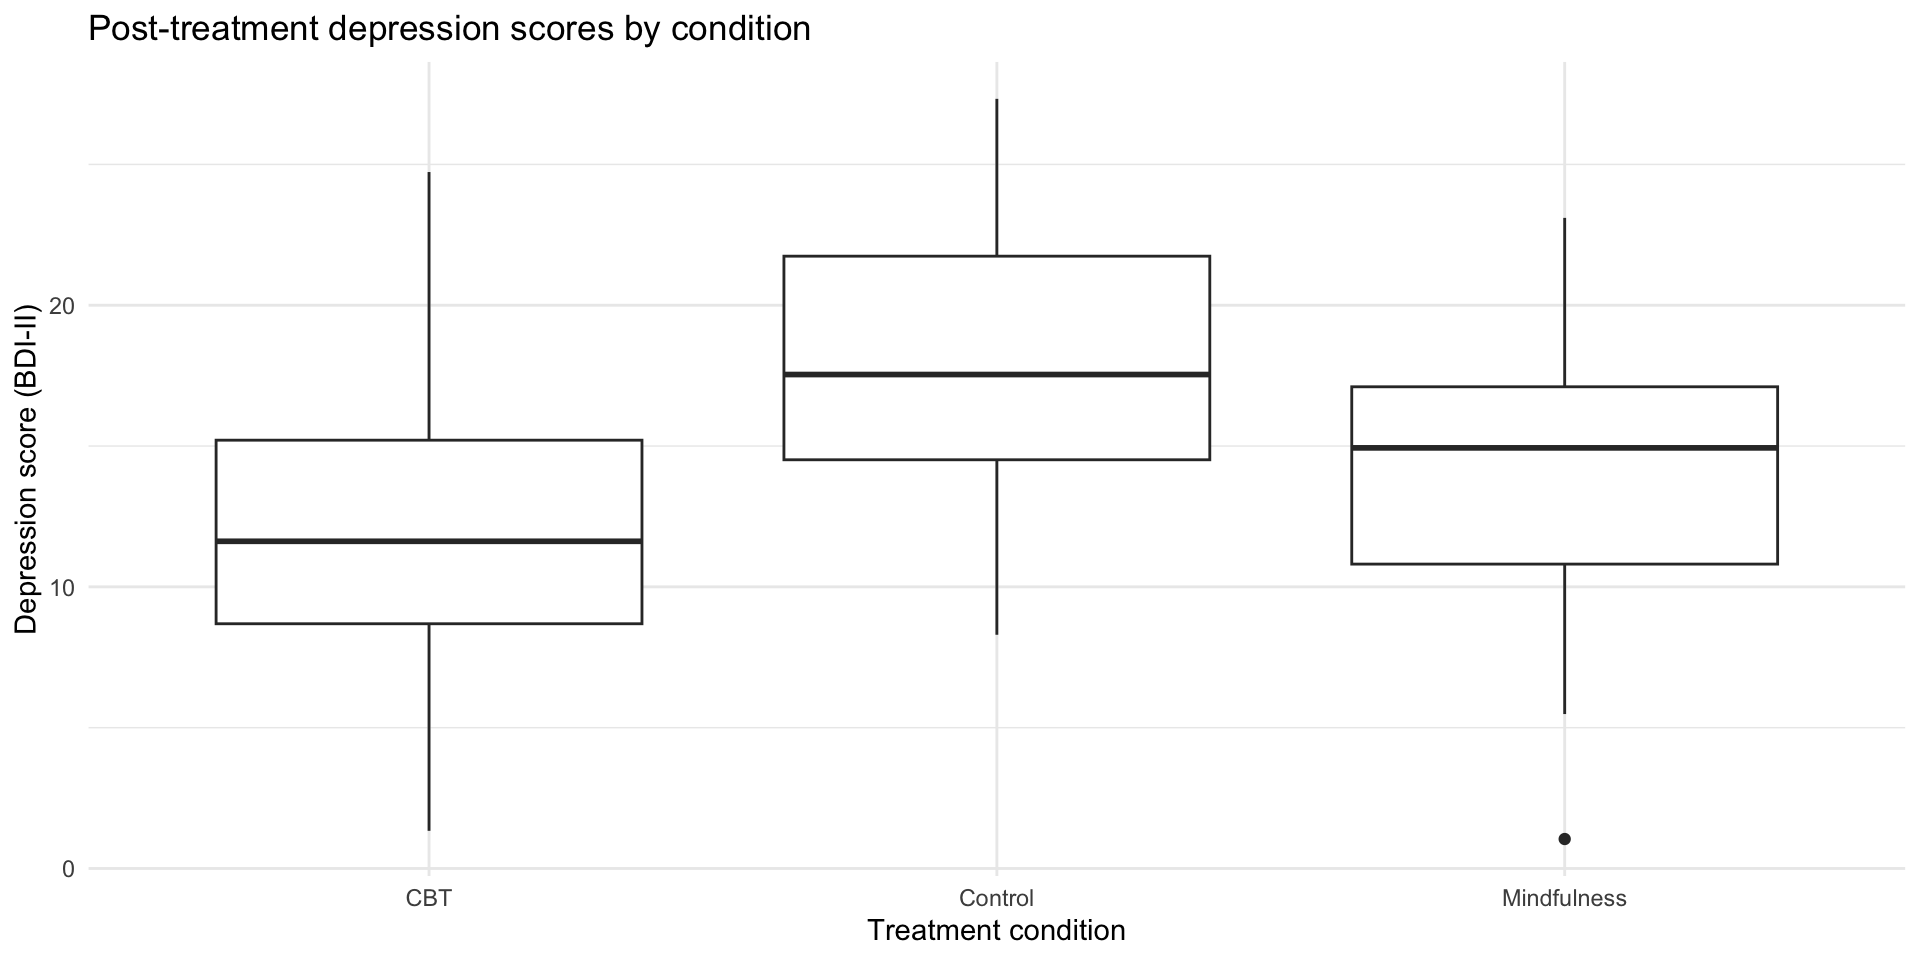
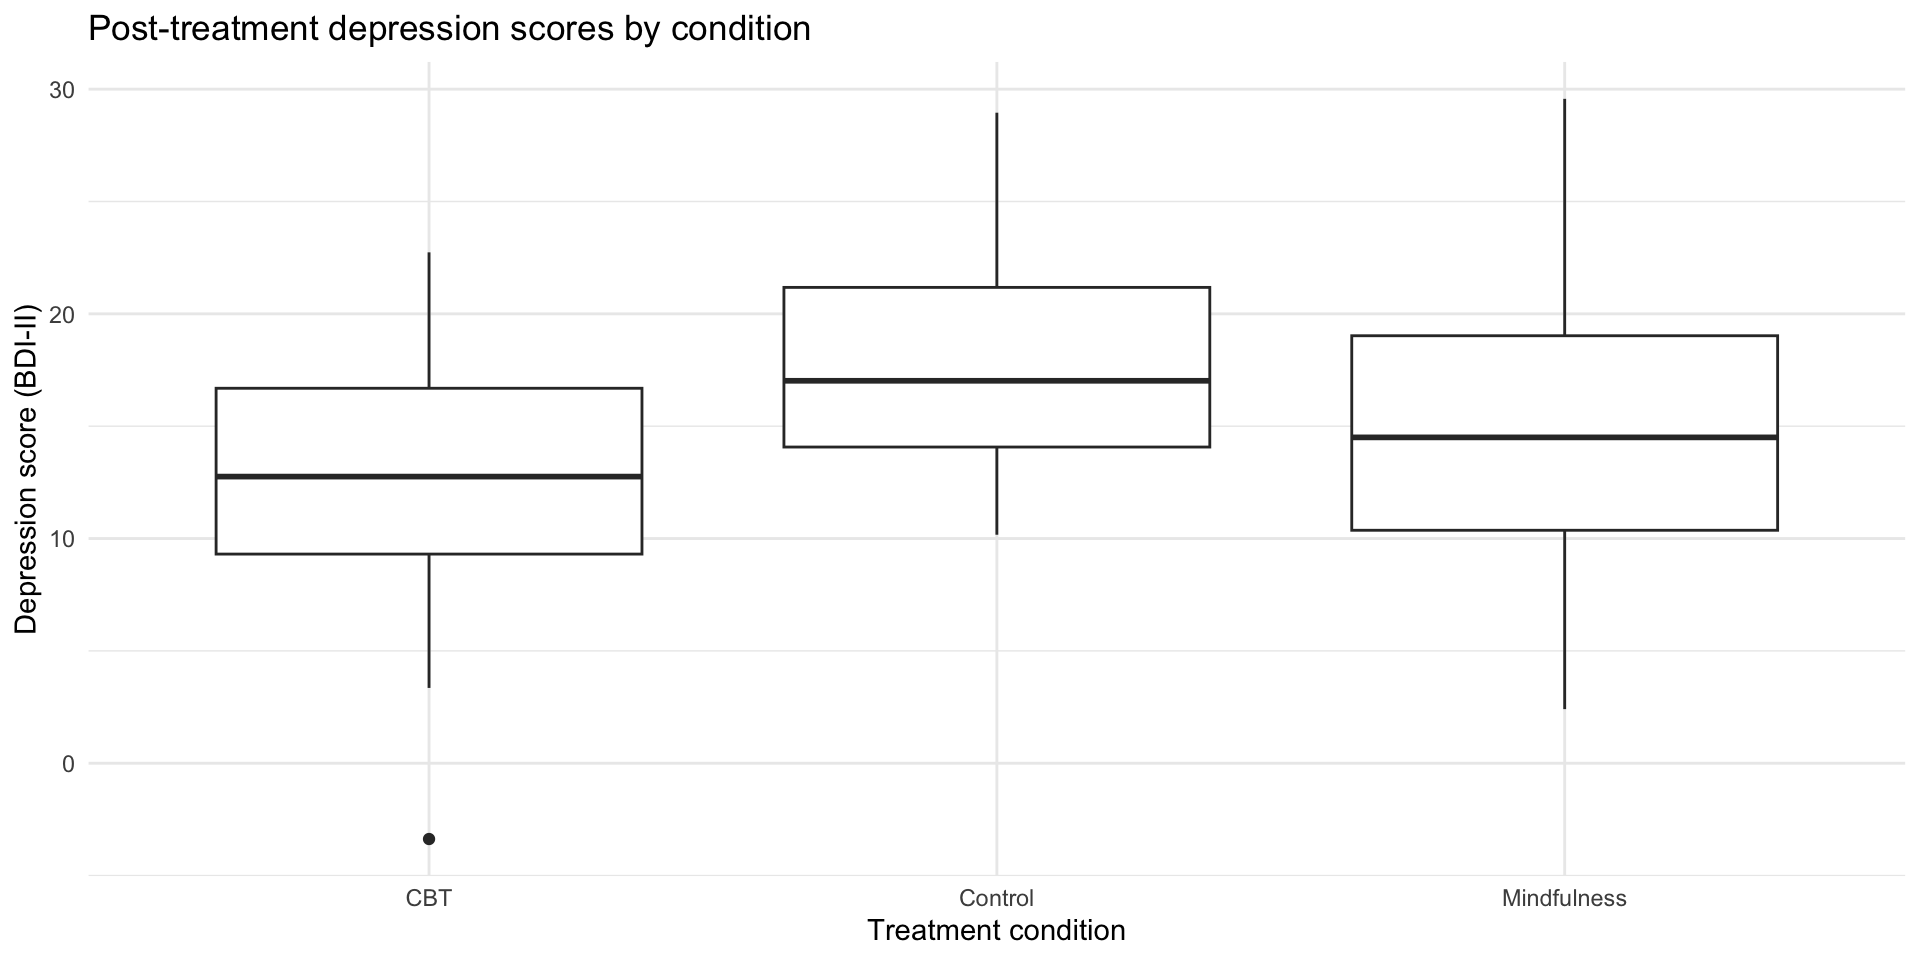
Built site for gh-pages

diff --git a/slides/11-eda-covariation.html b/slides/11-eda-covariation.html
@@ -270,7 +270,7 @@ Dr.&nbsp;Sara Weston
 <pre><code>Rows: 150
 Columns: 2
 $ condition       &lt;chr&gt; "Control", "Control", "Control", "Control", "Control",…
-$ depression_post &lt;dbl&gt; 17.859696, 16.665545, 9.601986, 19.877768, 19.070862, …</code></pre>
+$ depression_post &lt;dbl&gt; 12.74413, 22.35561, 26.64768, 26.41697, 14.50949, 18.9…</code></pre>
 </div>
 </div>
 <aside class="notes">
@@ -555,14 +555,14 @@ $ depression_post &lt;dbl&gt; 17.859696, 16.665545, 9.601986, 19.877768, 19.0708
 <span id="cb6-8"><a href="" aria-hidden="true" tabindex="-1"></a><span class="fu">head</span>(diagnosis_data)</span></code></pre></div>
 <div class="cell-output cell-output-stdout">
 <pre><code># A tibble: 6 × 2
-  referral  diagnosis
-  &lt;chr&gt;     &lt;chr&gt;    
-1 Self      Anxiety  
-2 Self      Other    
-3 Physician Other    
-4 Physician Anxiety  
-5 School    Other    
-6 Physician Anxiety  </code></pre>
+  referral  diagnosis 
+  &lt;chr&gt;     &lt;chr&gt;     
+1 School    Other     
+2 School    Depression
+3 Physician Anxiety   
+4 School    Depression
+5 School    Anxiety   
+6 Self      Other     </code></pre>
 </div>
 </div>
 </section>
@@ -743,8 +743,8 @@ $ depression_post &lt;dbl&gt; 17.859696, 16.665545, 9.601986, 19.877768, 19.0708
 <div class="cell-output cell-output-stdout">
 <pre><code>Rows: 100
 Columns: 2
-$ age           &lt;dbl&gt; 29.35101, 35.17477, 33.23575, 62.19349, 49.21511, 55.400…
-$ reaction_time &lt;dbl&gt; 286.3959, 326.1480, 327.0510, 415.9822, 420.4098, 313.66…</code></pre>
+$ age           &lt;dbl&gt; 31.59293, 31.50890, 19.65864, 43.65677, 39.92236, 61.052…
+$ reaction_time &lt;dbl&gt; 325.7398, 266.7404, 249.7062, 315.3078, 421.3998, 385.25…</code></pre>
 </div>
 </div>
 </section>
@@ -955,7 +955,7 @@ $ reaction_time &lt;dbl&gt; 286.3959, 326.1480, 327.0510, 415.9822, 420.4098, 31
 <div class="cell">
 <div class="sourceCode cell-code" id="cb22"><pre class="sourceCode r"><code class="sourceCode r"><span id="cb22-1"><a href="" aria-hidden="true" tabindex="-1"></a><span class="fu">cor</span>(rt_data<span class="sc">$</span>age, rt_data<span class="sc">$</span>reaction_time)</span></code></pre></div>
 <div class="cell-output cell-output-stdout">
-<pre><code>[1] 0.7642972</code></pre>
+<pre><code>[1] 0.7462142</code></pre>
 </div>
 </div>
 <div class="fragment">

diff --git a/slides/toc-nav.css b/slides/toc-nav.css
@@ -24,16 +24,16 @@
 }
 
 .toc-chip {
-  background: #ecf0f1;
-  color: #5d6d7e;
-  border: 1px solid transparent;
-  border-radius: 10px;
-  padding: 2px 8px;
+  background: transparent;
+  color: #95a5a6;
+  border: none;
+  border-radius: 0;
+  padding: 2px 6px;
   cursor: pointer;
   font-size: 11px;
   font-family: inherit;
   line-height: 1.3;
-  transition: background-color 0.15s ease, color 0.15s ease;
+  transition: color 0.15s ease;
   white-space: nowrap;
   max-width: 200px;
   overflow: hidden;
@@ -42,7 +42,6 @@
 }
 
 .toc-chip:hover {
-  background: #d5dbdb;
   color: #2c3e50;
 }
 
@@ -52,9 +51,8 @@
 }
 
 .toc-chip.active {
-  background: #2c3e50;
-  color: #ffffff;
-  font-weight: 600;
+  color: #2c3e50;
+  font-weight: 700;
 }
 
 /* Push the Quarto footer above the TOC so they don't overlap */
